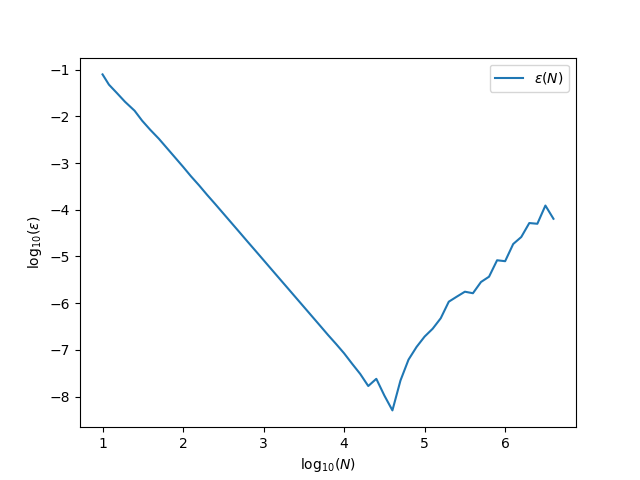
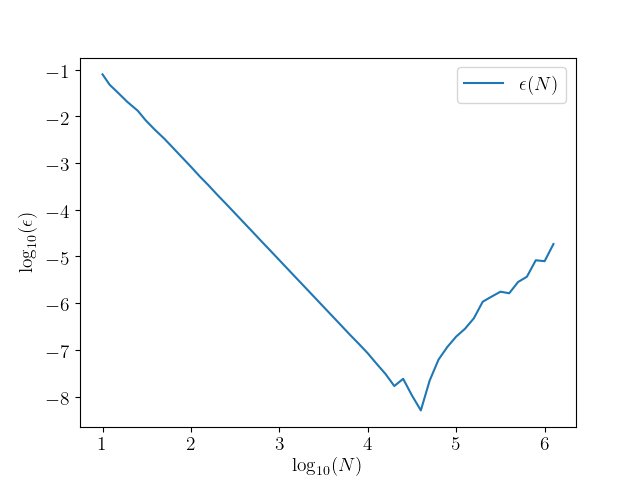
All finished files

diff --git a/project1.cpp b/project1.cpp
@@ -12,17 +12,20 @@ using namespace arma;
 void Poisson::Initialize(double exp)
 {
     m_exp = exp;
-    m_N = round(pow(10.0, exp)) + 1;
-    m_u = new double[m_N];
-    m_v = new double[m_N];
-    m_x = new double[m_N];
+    m_N = round(pow(10.0, exp)) + 1; // Number of gridpoints 
 
+    m_u = new double[m_N]; // Exact
+    m_v = new double[m_N]; // Numerical
+    m_x = new double[m_N]; // x-values
+
+    //Boundary conditions
     m_u[0] = 0, m_u[m_N-1] = 0;
     m_v[0] = 0, m_v[m_N-1] = 0;
     m_x[0] = 0, m_x[m_N-1] = 1;
 
-    m_h = 1.0/(m_N-1.0);
+    m_h = 1.0/(m_N-1.0); // Step length
 
+    // setting x-values, and the exact solution u
     for (int i = 1; i < m_N-1; i++) {
         m_x[i] = m_x[i-1] + m_h;
         m_u[i] = Poisson::exact(m_x[i]);
@@ -30,84 +33,98 @@ void Poisson::Initialize(double exp)
 
 }
 
-double Poisson::f(double x)
+double Poisson::g(double x)
 {
+    //Equation (16)
     return m_h*m_h*100.0*exp(-10.0*x);
 }
 
 double Poisson::exact(double x)
 {
+    // Equation (17)
     return 1.0 - (1.0 - exp(-10.0))*x - exp(-10.0*x);
 }
 
 
 void Poisson::Integrate_proper()
 {
-    double* a, * c;
-    a = new double[m_N-3];
-    c = new double[m_N-3];
+    // l and r array from equation (8)
+    double* l, * r;
+    l = new double[m_N-3];
+    r = new double[m_N-3];
 
+    // Matrix of the values for B[0] = d, B[1] = \breve d, B[2] = g, and B[3] = \Tilde g.
     double** B;
     B = Poisson::Dmatrix(4, m_N-2);
 
     for (int i = 1; i < m_N-1; i++) {
+        // setting d and g values
         B[0][i-1] = 2;
-        B[2][i-1] = Poisson::f(m_x[i]);
+        B[2][i-1] = Poisson::g(m_x[i]);
     }
 
+    // setting \Tilde g_0 and \breve d_0 values
     B[3][0] = B[2][0];
     B[1][0] = 1.0/B[0][0];
 
     for (int i = 0; i < m_N-3; i++) {
-        a[i] = -1;
-        c[i] = -1;
+        // setting l and r values.
+        l[i] = -1;
+        r[i] = -1;
     }
 
     for (int i = 1; i < m_N-2; i++) {
-        B[1][i] = 1.0/(B[0][i] - a[i-1]*B[1][i-1]*c[i-1]);
-        B[3][i] = B[2][i] - a[i-1]*B[1][i-1]*B[3][i-1];
+        // Forward sub: equation (10) and (11)
+        B[1][i] = 1.0/(B[0][i] - l[i-1]*B[1][i-1]*r[i-1]);
+        B[3][i] = B[2][i] - l[i-1]*B[1][i-1]*B[3][i-1];
     }
 
     m_v[m_N-2] = B[3][m_N-3]*B[1][m_N-3];
 
     for (int i = m_N-3; i > 0; i--) {
-        m_v[i] = (B[3][i-1] - m_v[i+1]*c[i-1])*B[1][i-1];
+        // Backward sub: equation (12)
+        m_v[i] = (B[3][i-1] - m_v[i+1]*r[i-1])*B[1][i-1];
     }
 
-    delete[] a;
-    delete[] c;
+    // Freeing memory
+    delete[] l;
+    delete[] r;
     Poisson::delete_Dmatrix(B, 4, m_N-2);
 }
 
 void Poisson::Integrate_efficient()
 {
-    double d_tilda;
-    double* B;
-    B = new double[m_N-2];
-    B[0] = Poisson::f(m_x[1]);
+    double d_breve;
+    double* g_tilde;
+    g_tilde = new double[m_N-2];
+    g_tilde[0] = Poisson::g(m_x[1]);
 
     for (int i = 1; i < m_N-2; i++) {
-        d_tilda = i/(i+1.0);
-        B[i] = Poisson::f(m_x[i+1]) + d_tilda*B[i-1];
+        // Forward sub, equations (13) and (14)
+        d_breve = i/(i+1.0);
+        g_tilde[i] = Poisson::g(m_x[i+1]) + d_breve*g_tilde[i-1];
     }
 
-    m_v[m_N-2] = B[m_N-3]*(m_N-2.0)/(m_N-1.0);
+    m_v[m_N-2] = g_tilde[m_N-3]*(m_N-2.0)/(m_N-1.0);
 
     for (int i = m_N-3; i > 0; i--) {
-        d_tilda = i/(i+1.0);
-        m_v[i] = (B[i-1] + m_v[i+1])*d_tilda;
+        // Backward sub, equations (13) and (15)
+        d_breve = i/(i+1.0); 
+        m_v[i] = (g_tilde[i-1] + m_v[i+1])*d_breve;
     }
 
-    delete[] B;
+    //Freeing memory
+    delete[] g_tilde;
 }
 
 void Poisson::LU_decomp()
 {
+    // LU-decomposition
     mat A(m_N-2, m_N-2);
     vec g(m_N-2);
     
     for (int i = 0; i < m_N-2; i++) {
-        g(i) = Poisson::f(m_x[i+1]);
+        g(i) = Poisson::g(m_x[i+1]);
 
         for (int j = 0; j < m_N-2; j++) {
             if (i == j)
@@ -134,21 +151,28 @@ void Poisson::LU_decomp()
 
 double Poisson::get_maxerror()
 {
+    // Using the last term as the largest error
+    // (could also have checked all the terms)
+
     return log10(abs(1-m_v[m_N-2]/m_u[m_N-2]));
 
+    // Freeing memory
     Poisson::Free();
 }
 
 void Poisson::Print()
 {
+    // Print function for convenience
     for (int i = 1; i < m_N-1; i++)
         cout << m_v[i] << ", " << m_u[i] << " " << log10(abs(1-m_v[i]/m_u[i])) << endl;
 
+    // Freeing memory
     Poisson::Free();
 }
 
 void Poisson::Write(const string& tag)
 {
+    // Write function to plot in python
     string name = "N";
     name += to_string((int)m_exp);
     name += tag;
@@ -162,6 +186,7 @@ void Poisson::Write(const string& tag)
 
     outFile.close();
 
+    // Freeing memory
     Poisson::Free();
 }
 

diff --git a/plot.py b/plot.py
@@ -1,12 +1,16 @@
 import matplotlib.pyplot as plt
 import glob
 import numpy as np
+plt.rcParams["text.usetex"] =True
+plt.rcParams.update({'font.size': 14})
+
 
 txtfiles = []
 for file in glob.glob("N*.txt"):
     txtfiles.append(file)
 
 plt.figure(1)
+plt.rcParams["mathtext.fontset"] = "cm"
 
 for file in txtfiles:
     v = []; u = []; x = []
@@ -19,9 +23,9 @@ for file in txtfiles:
         u.append(float(words[2]))
     infile.close()
 
-    plt.plot(x, v, label='v(x)')
+    plt.plot(x, v, label=f'v(x) n={10**(int(file[1]))}')
 
-plt.plot(x, u, label='u(x)')
+plt.plot(x, u, '--', label='u(x)')
 plt.xlabel('x'); plt.ylabel('y')
 plt.legend()
 plt.savefig("plot.png")
@@ -34,8 +38,9 @@ for line in infile:
     error.append(float(words[1]))
 
 plt.figure(2)
+plt.rcParams["mathtext.fontset"] = "cm"
 
-plt.plot(np.log10(np.asarray(N)), error, label=r'$\epsilon (N)$')
-plt.xlabel(r'$\log_{10}(N)$'); plt.ylabel(r'$\log_{10}(\epsilon)$')
+plt.plot(np.log10(np.asarray(N)), error, label=r'$\epsilon (n)$')
+plt.xlabel(r'$\log_{10}(n)$'); plt.ylabel(r'$\log_{10}(\epsilon)$')
 plt.legend()
 plt.savefig("error.png")

diff --git a/main.cpp b/main.cpp
@@ -10,6 +10,9 @@ int main() {
 	clock_t start, finish;
 
 	if (false) {
+
+		// Compares computation time of the three methods
+
 		Poisson my_solver;
 		my_solver.Initialize(3);
 
@@ -50,10 +53,11 @@ int main() {
 		outFile.close();
 	}
 
-	start = clock();
 
-	//Solve integral
-	if (true) {
+	if (false) {
+
+		// Finds the max error of different Ns, and writes them to file
+
 		ofstream outFile;
 		outFile.open("error.txt");
 
@@ -64,9 +68,7 @@ int main() {
 			exp = i/10.0;
 			Poisson my_solver;
 			my_solver.Initialize(exp);
-			//my_solver.Integrate_proper();
 			my_solver.Integrate_efficient();
-			//my_solver.LU_decomp();
 			error = my_solver.get_maxerror();
 
 			outFile << setw(15) << setprecision(8) << scientific << (int)pow(10,exp) << " " << error << endl;
@@ -74,9 +76,7 @@ int main() {
 
 		outFile.close();
 	}
-	
-	finish = clock();
-	cout << endl << setprecision(8) << "Time: " << (((double)finish - start)/(double)CLOCKS_PER_SEC*1000.0) << " ms.";
+
 
 	
 	return 0;

diff --git a/project1.hpp b/project1.hpp
@@ -7,7 +7,7 @@ private:
 	double m_h, m_exp;
 	double *m_u, *m_v, *m_x;
 
-	double f(double x);
+	double g(double x);
 	double exact(double x);
 	double** Dmatrix(int row, int col);
 	void delete_Dmatrix(double** M, int row, int col);
